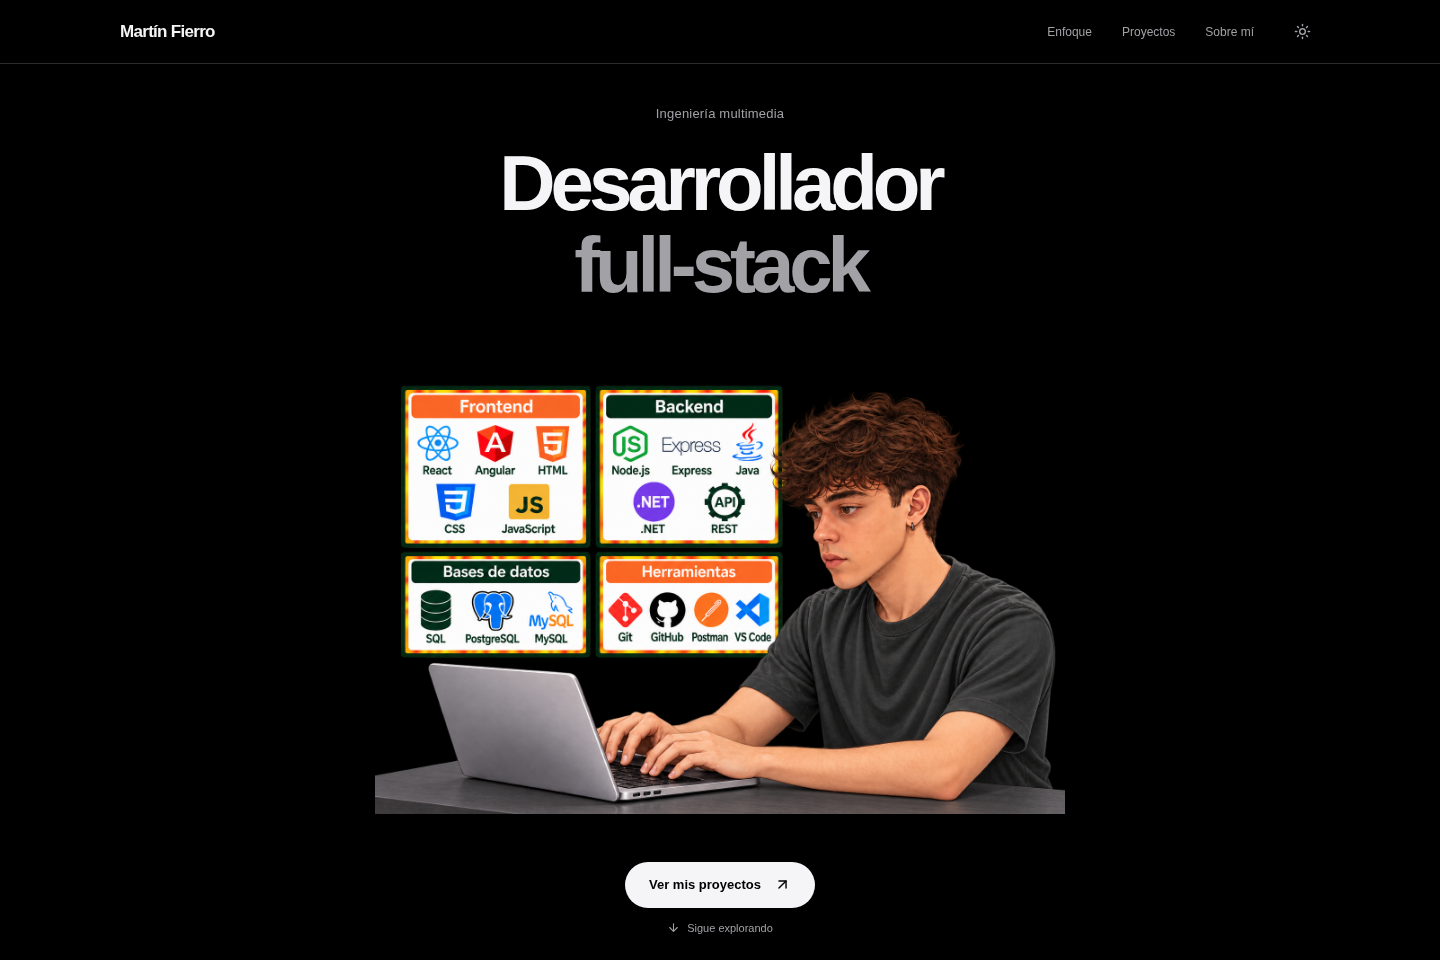
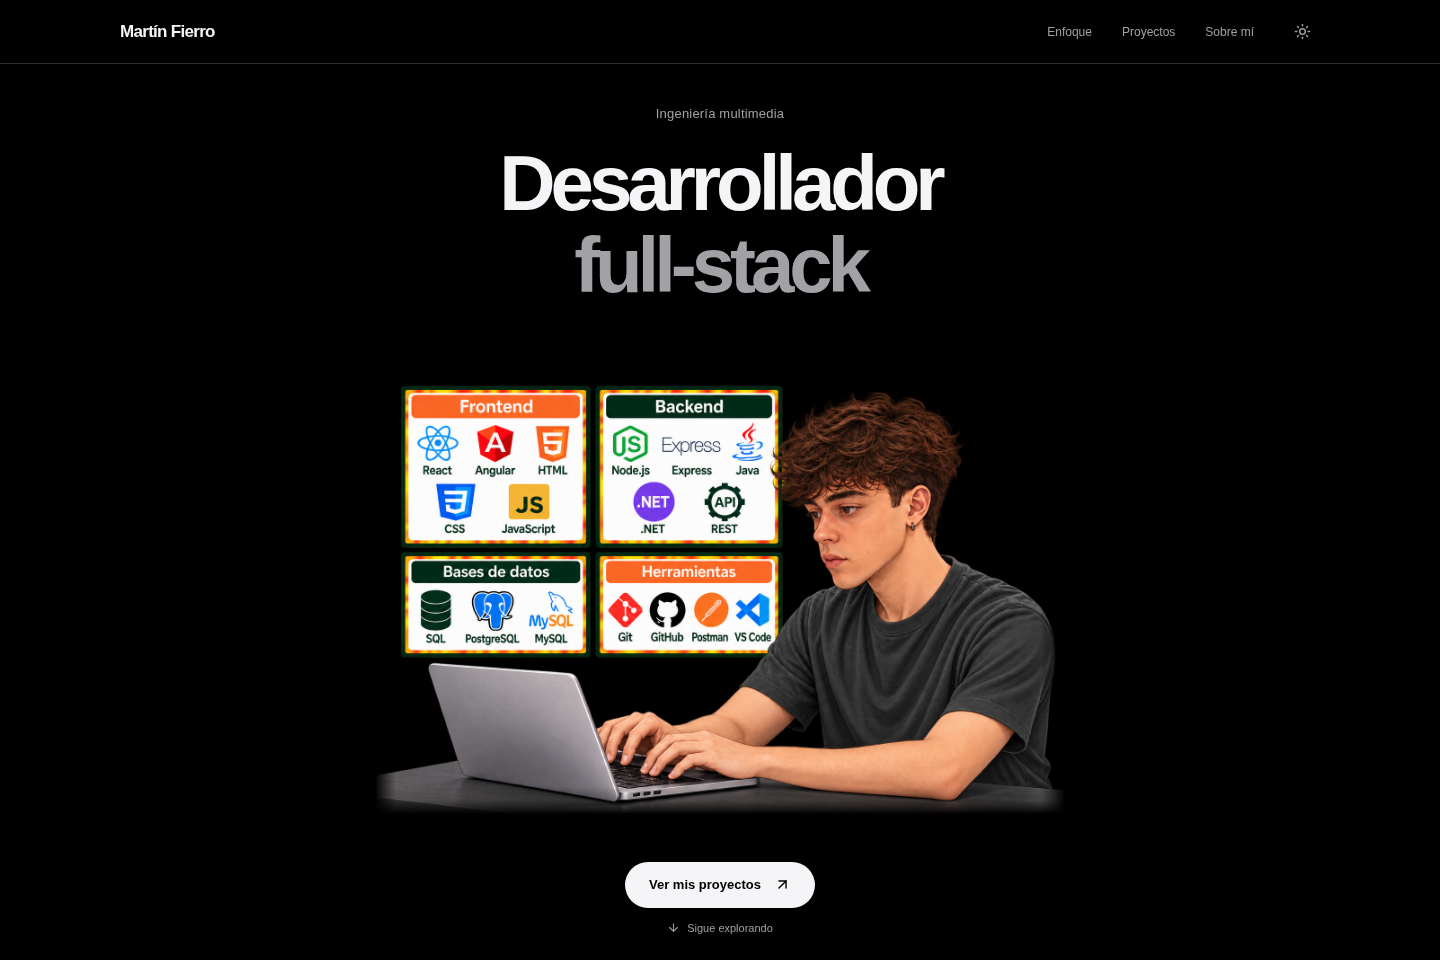
Blend illustration edges into page background across screen sizes

Changed region(s): [[0.25, 0.8125, 0.75, 0.875]]

diff --git a/src/styles/home.css b/src/styles/home.css
@@ -35,11 +35,18 @@
   padding-block: 12px;
 }
 .developer-illustration {
+  --edge-mask:
+    linear-gradient(to bottom, #000 94%, #000000cc 97%, transparent 100%),
+    linear-gradient(to right, transparent, #000 3%, #000 96.5%, transparent);
   display: block;
-  width: min(100%, 820px);
-  height: 100%;
-  max-height: 460px;
-  object-fit: contain;
+  width: auto;
+  height: auto;
+  max-width: min(100%, 820px);
+  max-height: min(100%, 460px);
+  -webkit-mask-image: var(--edge-mask);
+  mask-image: var(--edge-mask);
+  -webkit-mask-composite: source-in;
+  mask-composite: intersect;
 }
 .hero-discover {
   display: flex;
